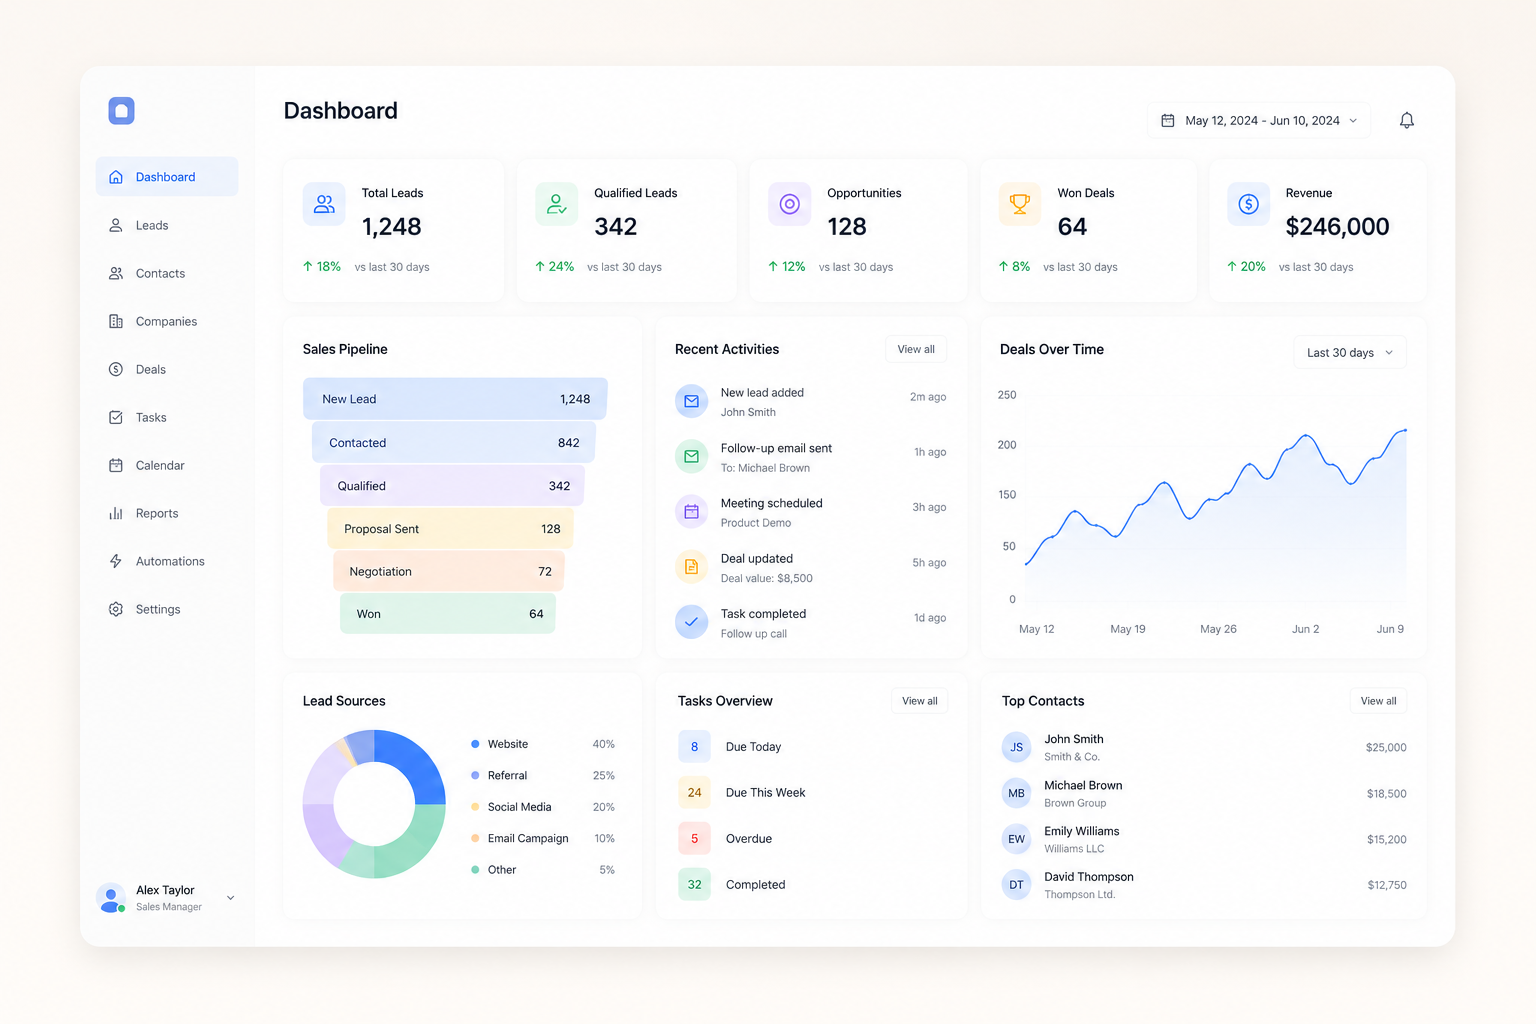
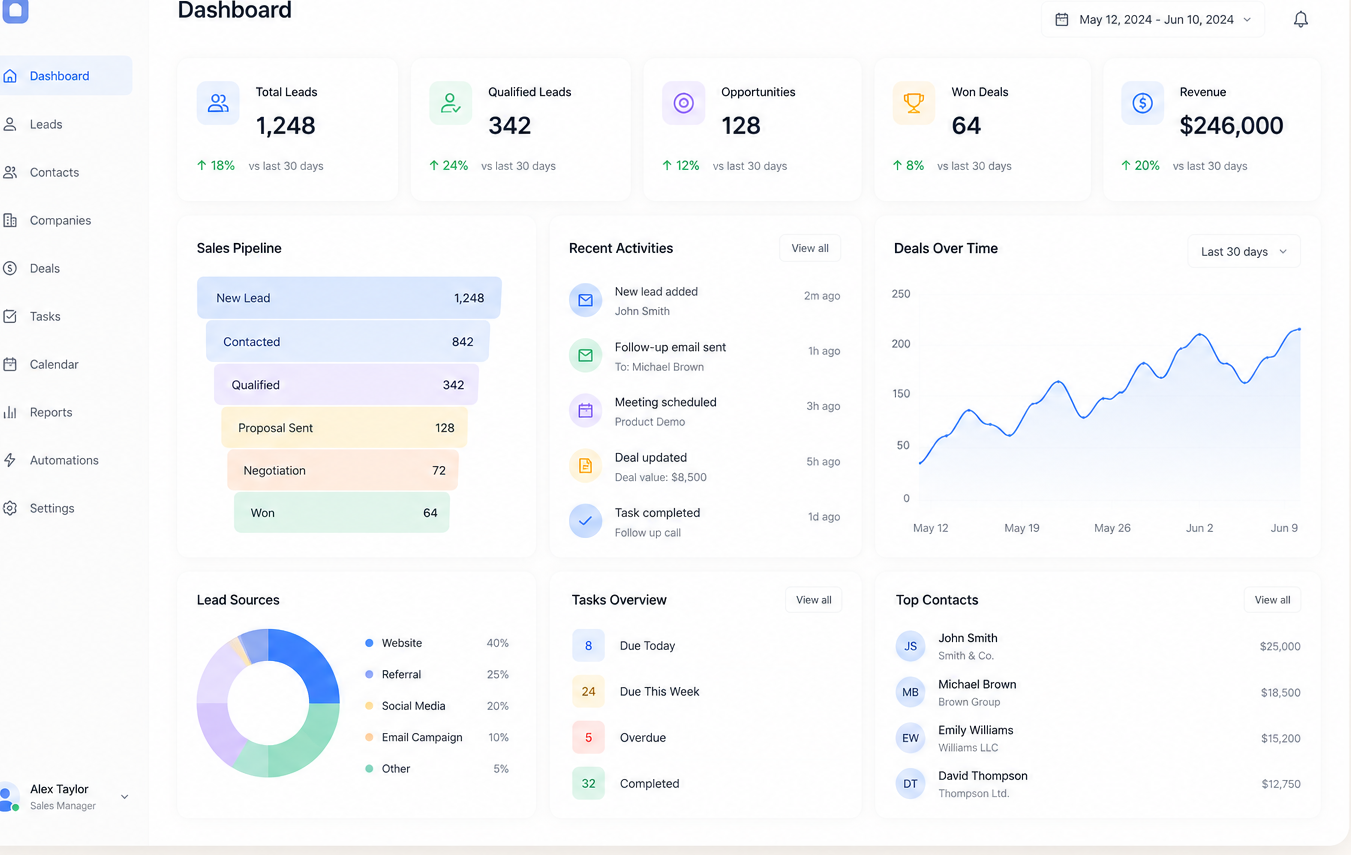
Crop cream out of scale-hero PNG + fix footer wording
Real fix for the Scale dashboard cream border problem: detected and
cropped the cream padding directly out of the image file using PIL,
1536×1024 → 1351×855 (new aspect 1.58). No CSS scale hack needed
anymore — full dashboard fills edge-to-edge with cover. Sidebar nav,
all 5 stats (incl Revenue $246,000), charts, and contacts all readable,
no cream visible anywhere.

Visual aspect updated 3:2 → 19:12 (≈1.58) to exactly match the
cropped image so cover fills perfectly with no overflow crop.

Footer wording: "With Marketing, Deals, Sales." → "Marketing, Deals,
Sales." (dropped the leading "With").

Cache buster v21 → v22.

diff --git a/index.html b/index.html
@@ -18,7 +18,7 @@
   <link rel="preconnect" href="https://fonts.googleapis.com">
   <link rel="preconnect" href="https://fonts.gstatic.com" crossorigin>
   <link href="https://fonts.googleapis.com/css2?family=Inter:wght@400;500;600;700;800;900&display=swap" rel="stylesheet">
-  <link rel="stylesheet" href="assets/site.css?v=21">
+  <link rel="stylesheet" href="assets/site.css?v=22">
 </head>
 <body>
   <header class="site-header">
@@ -285,7 +285,7 @@
     <div>
       <img class="footer-logo" src="assets/logo/mds-diversified-horizontal-light.svg" alt="MDS Diversified">
       <p class="footer-regions">Australia · UAE · America · Europe</p>
-      <p>With Marketing, Deals, Sales.</p>
+      <p>Marketing, Deals, Sales.</p>
     </div>
   </footer>
 

diff --git a/assets/site.css b/assets/site.css
@@ -850,8 +850,8 @@ h1, h2, h3, p, blockquote { margin-top: 0; }
   background: #fafafb;
 }
 .apple-card-tile--scale .apple-tile-visual {
-  aspect-ratio: 3 / 2;
-  background: #fafafb;
+  aspect-ratio: 19 / 12;
+  background: #ffffff;
   overflow: hidden;
 }
 .apple-card-tile--scale .apple-tile-visual img {
